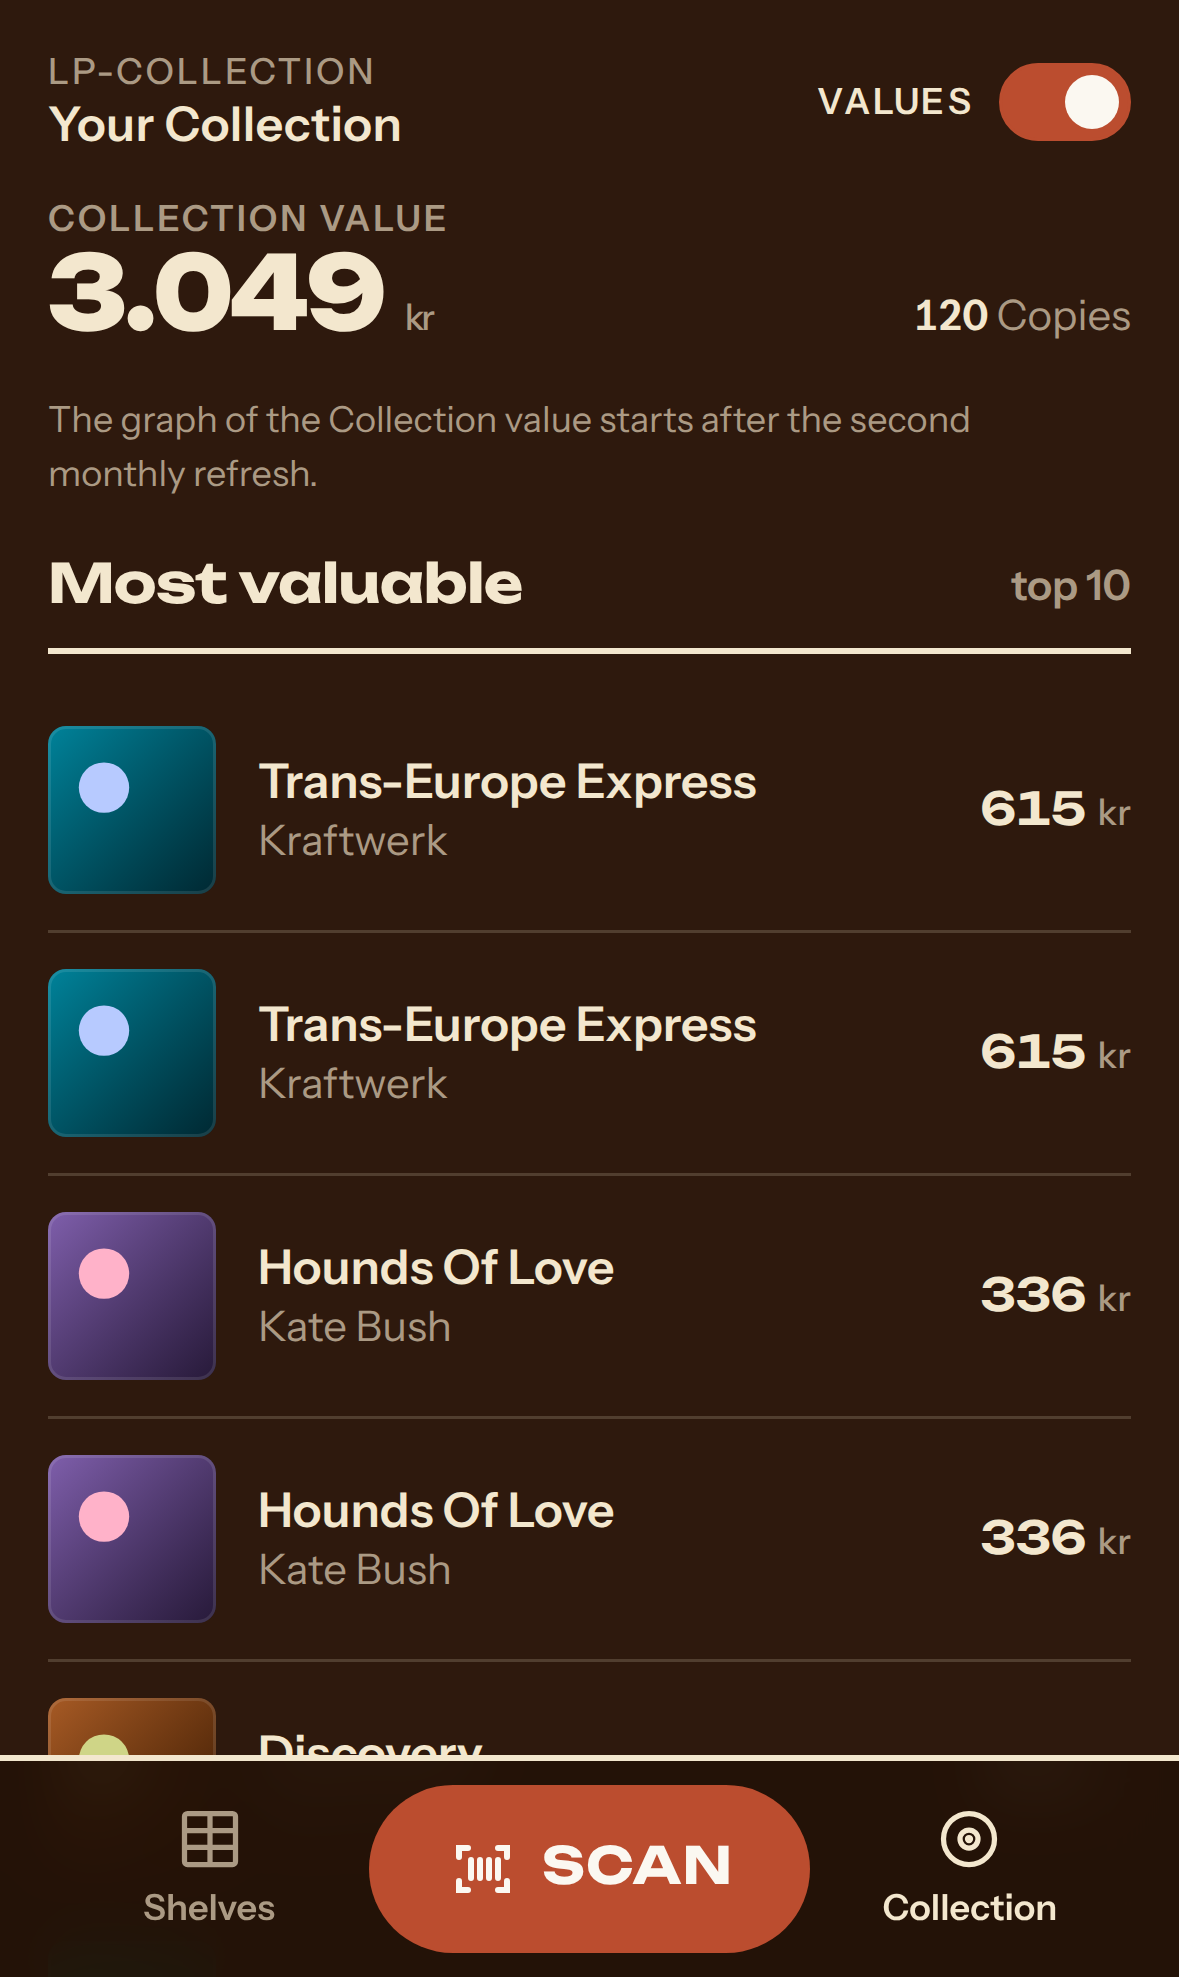
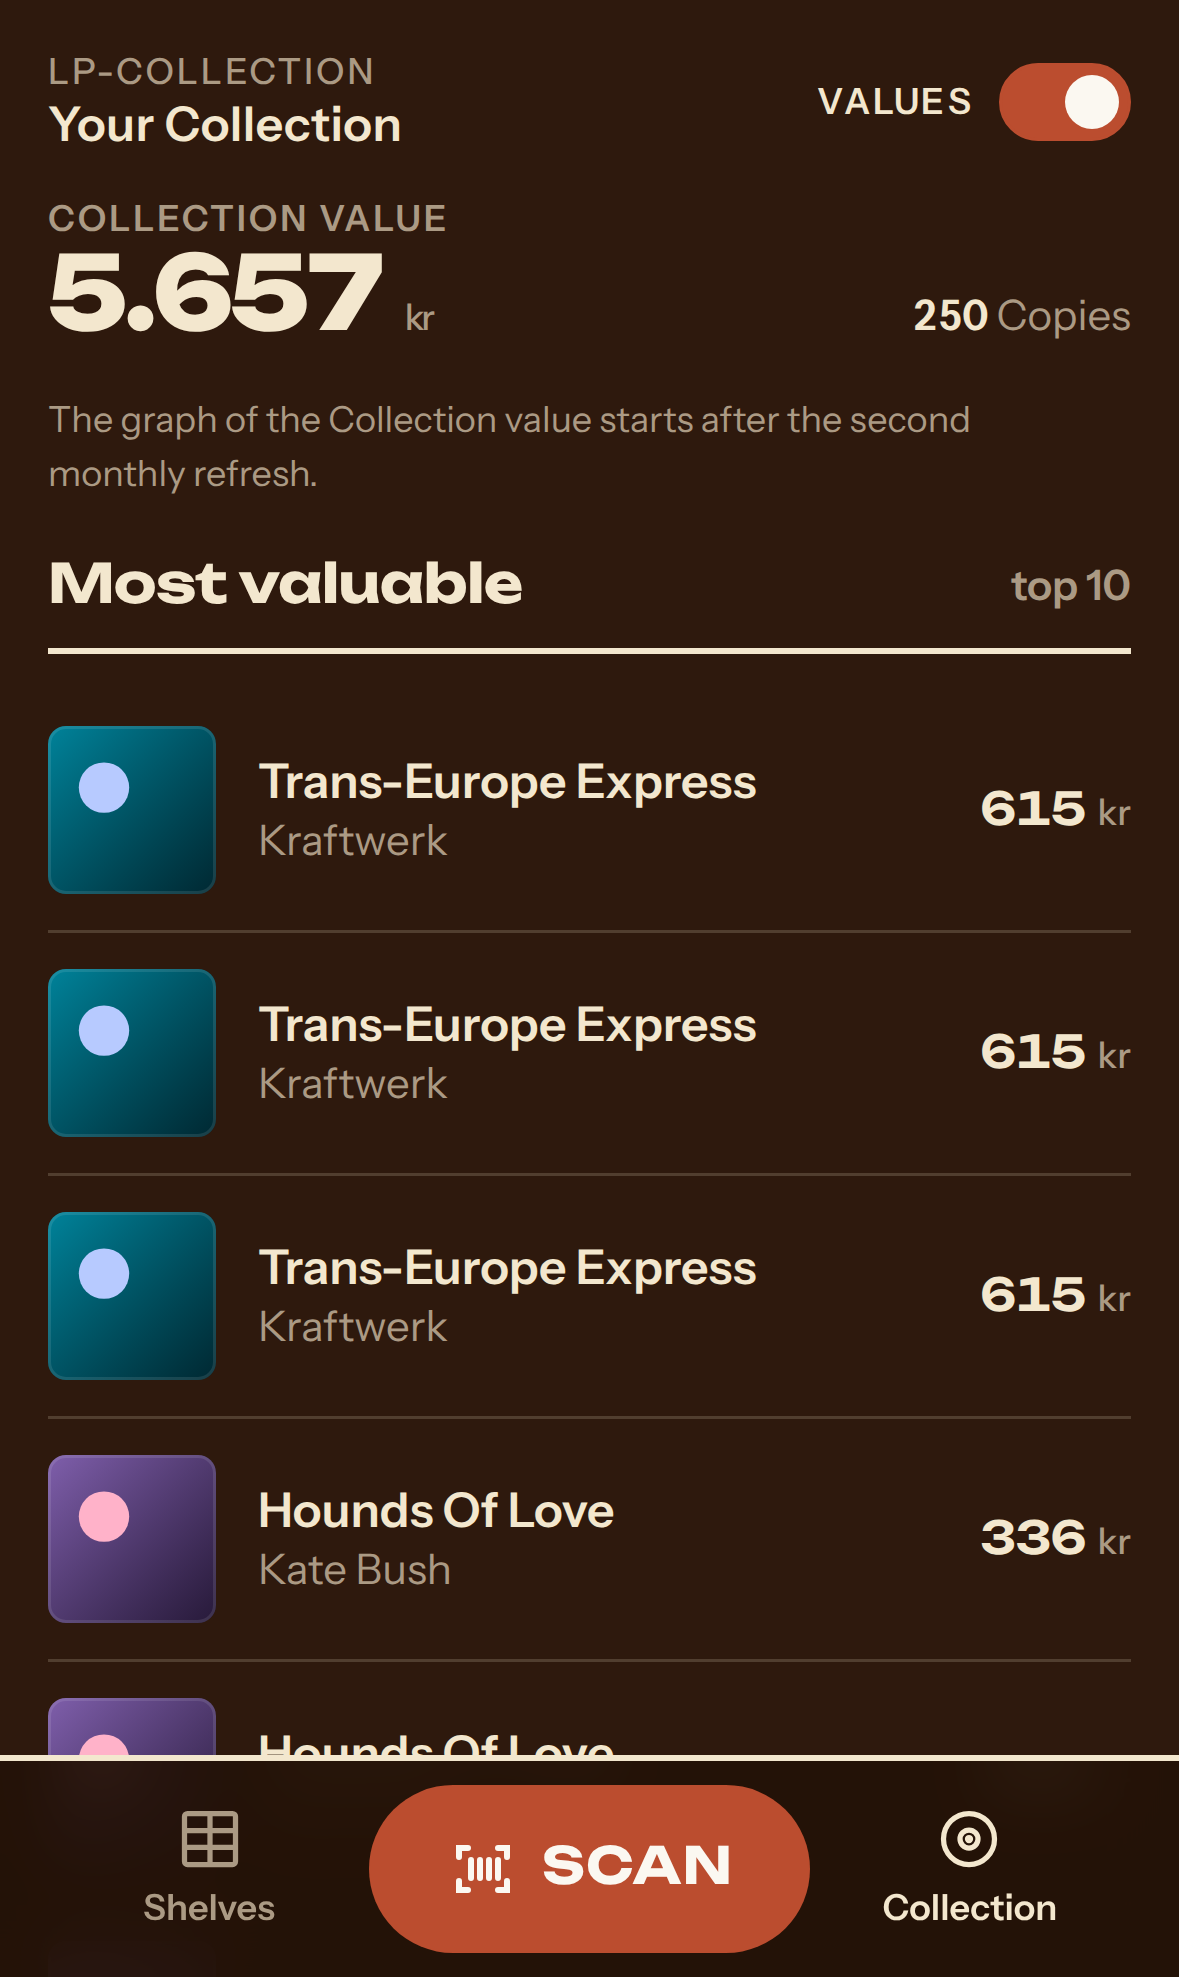
fix(import): run imports side by side and show progress only with something to import (#64)
* fix(import): run imports side by side and show progress only with something to import

One User's large import held up every other new User's, and the progress
notice briefly showed for empty collections, colliding with other status
messages. Imports now run one per User, and the notice appears once the
first page says how many records there are.

* docs: retake ticket 13 screenshots with progress counts

---------

diff --git a/test/api/discogs-import.test.ts b/test/api/discogs-import.test.ts
@@ -1,7 +1,7 @@
 import { expect, test } from "vitest";
 import { createImporter, importPauseMs } from "../../src/server/discogs-import.ts";
 import { priceLadder, sampleReleases, type FakeDiscogsScript } from "../../src/server/fake-discogs.ts";
-import { logInWithCollection, saveCopy, type Member, type TestApp } from "../support/members.ts";
+import { invitedFriend, logInWithCollection, type Member, type TestApp } from "../support/members.ts";
 import { createTestApp } from "../support/test-app.ts";
 
 type Listed = { copies: { id: string; mediaCondition: string; sleeveCondition: string; release: { discogsReleaseId: number; title: string } }[]; total: number };
@@ -97,4 +97,28 @@ test("the import keeps to 40 Discogs requests a minute, pausing before each, and
   expect(importPauseMs).toBe(1500);
   expect(waits).toEqual(Array(1 + 4 * 2).fill(importPauseMs));
   expect((await list(owner)).total).toBe(4);
+});
+
+test("Users' imports run side by side, so one large import never holds up another User's", async () => {
+  const app = await createTestApp({ discogs: { releases: sampleReleases, collections: { "app-owner": releaseIds.slice(0, 2), friend: releaseIds.slice(0, 3) } } });
+  const owner = await logInWithCollection(app);
+  const friend = await invitedFriend(app, owner.session, "friend");
+  await app.query("delete from copies");
+  await app.query("update discogs_imports set status = 'running', next_page = 1, imported = 0");
+  let release!: () => void;
+  const ownersPageHeld = new Promise<void>((resolve) => (release = resolve));
+  const listed = app.discogs.collectionPage.bind(app.discogs);
+  app.discogs.collectionPage = async (discogsUsername, ...rest) => {
+    if (discogsUsername === "app-owner") await ownersPageHeld;
+    return listed(discogsUsername, ...rest);
+  };
+  const importer = createImporter({ database: app.database, discogs: app.discogs, secretBox: app.secretBox, now: app.now, wait: async () => {} });
+
+  const all = importer.runDue();
+  await expect.poll(async () => (await list(friend)).total).toBe(3);
+  expect((await list(owner)).total).toBe(0);
+
+  release();
+  await all;
+  expect((await list(owner)).total).toBe(2);
 });

diff --git a/src/server/discogs-import.ts b/src/server/discogs-import.ts
@@ -36,8 +36,6 @@ export function createImporter({
   wait: (ms: number) => Promise<void>;
 }) {
   const { db } = database;
-  let running: Promise<void> | undefined;
-  let again = false;
 
   /** Waits its turn for each Discogs request the call makes, then makes it. */
   async function call<T>(request: () => Promise<T>, requests = 1) {
@@ -123,28 +121,40 @@ export function createImporter({
     }
   }
 
+  /** Imports run side by side, one per User: each User's Discogs account has its own rate limit. */
+  const runs = new Map<string, Promise<void>>();
+  const inFlight = new Set<Promise<void>>();
+
+  function track(promise: Promise<void>) {
+    inFlight.add(promise);
+    void promise.finally(() => inFlight.delete(promise)).catch(() => undefined);
+    return promise;
+  }
+
+  /** Starts every due import that isn't running yet, and settles when they are done. */
   function runDue(): Promise<void> {
-    if (running) {
-      again = true;
-      return running;
-    }
-    running = (async () => {
-      do {
-        again = false;
+    return track(
+      (async () => {
+        const started: Promise<void>[] = [];
         for (const job of await due()) {
+          if (runs.has(job.userId)) continue;
           const claimed = await claim(job);
-          if (claimed) await runImport(claimed);
+          if (!claimed) continue;
+          const run = runImport(claimed).finally(() => runs.delete(job.userId));
+          runs.set(job.userId, run);
+          started.push(track(run));
         }
-      } while (again);
-    })().finally(() => {
-      running = undefined;
-    });
-    return running;
+        await Promise.all(started);
+      })(),
+    );
   }
 
   return {
     runDue,
-    idle: () => running ?? Promise.resolve(),
+    /** Settles once no import is running or being started. */
+    async idle() {
+      while (inFlight.size > 0) await Promise.allSettled([...inFlight]);
+    },
     kick() {
       runDue().catch((error: unknown) => console.error(`The Discogs import stopped: ${error instanceof Error ? error.message : String(error)}`));
     },

diff --git a/src/server/main.ts b/src/server/main.ts
@@ -112,7 +112,7 @@ if (config.discogs.kind === "real") {
   exchangeRates = createEcbRates();
 } else {
   console.log(
-    "DISCOGS=fake: using the fake Discogs, whose login page asks only for a username and which knows a few sample Releases and their prices. A username that starts with no-seller-settings has no seller settings until they are saved at /fake-discogs/settings/seller, one that starts with no-collection-sync has a Discogs collection that refuses every change, and one that starts with with-discogs-collection has 120 records in Discogs to import at first login. Exchange rates are fixed.",
+    "DISCOGS=fake: using the fake Discogs, whose login page asks only for a username and which knows a few sample Releases and their prices. A username that starts with no-seller-settings has no seller settings until they are saved at /fake-discogs/settings/seller, one that starts with no-collection-sync has a Discogs collection that refuses every change, and one that starts with with-discogs-collection has 250 records in Discogs to import at first login. Exchange rates are fixed.",
   );
   discogs = fake = createFakeDiscogs({
     releases: sampleReleases,
@@ -121,7 +121,7 @@ if (config.discogs.kind === "real") {
     sellerSettingsMissingFor: (discogsUsername) => discogsUsername.startsWith("no-seller-settings"),
     collectionUnavailableFor: (discogsUsername) => discogsUsername.startsWith("no-collection-sync"),
     collectionFor: (discogsUsername) =>
-      discogsUsername.startsWith("with-discogs-collection") ? Array.from({ length: 120 }, (_, index) => sampleReleases[index % sampleReleases.length]!.discogsReleaseId) : undefined,
+      discogsUsername.startsWith("with-discogs-collection") ? Array.from({ length: 250 }, (_, index) => sampleReleases[index % sampleReleases.length]!.discogsReleaseId) : undefined,
     collectionPageDelayMs: 1_500,
   });
   exchangeRates = createFixedRates();

diff --git a/.claude/skills/verify-lp-collection/bin/drive-discogs-import.ts b/.claude/skills/verify-lp-collection/bin/drive-discogs-import.ts
@@ -37,7 +37,7 @@ await expect(progress).toBeVisible();
 console.log("while it runs:", await progress.textContent());
 await shot(page, "import-running");
 
-await expect(page.getByRole("region", { name: "Overview" })).toContainText("120 Copies", { timeout: 20_000 });
+await expect(page.getByRole("region", { name: "Overview" })).toContainText("250 Copies", { timeout: 20_000 });
 await expect(progress).toHaveCount(0);
 await shot(page, "import-done");
 const me = await page.request.get("/api/me");
@@ -46,9 +46,9 @@ console.log("after:", JSON.stringify(((await me.json()) as { discogsImport: unkn
 
 const again = await (await browser.newContext({ ...iPhone, baseURL: state.appUrl })).newPage();
 await logIn(again, "with-discogs-collection-demo");
-await expect(again.getByRole("region", { name: "Overview" })).toContainText("120 Copies");
+await expect(again.getByRole("region", { name: "Overview" })).toContainText("250 Copies");
 await expect(again.getByText("Importing your Discogs collection")).toHaveCount(0);
-console.log("logging in again: still 120 Copies, no second import");
+console.log("logging in again: still 250 Copies, no second import");
 
 await writeFile(`${evidence}/console-errors.json`, JSON.stringify(consoleErrors, null, 2));
 console.log("console errors:", consoleErrors);

diff --git a/e2e/discogs-import.spec.ts b/e2e/discogs-import.spec.ts
@@ -1,16 +1,16 @@
 import { expect, test } from "./login.ts";
 
 test("a new User's Discogs collection is imported at first login, with progress shown while it runs", async ({ page, logInAsNewUser }) => {
-  // 120 records with Discogs' rate-limit pauses take a while when other tests share the machine.
+  // 250 records with Discogs' rate-limit pauses take a while when other tests share the machine.
   test.setTimeout(90_000);
   await logInAsNewUser(page, "with-discogs-collection");
 
   await expect(page.getByText("Importing your Discogs collection")).toBeVisible();
-  await expect(page.getByRole("region", { name: "Overview" })).toContainText("120 Copies", { timeout: 60_000 });
+  await expect(page.getByRole("region", { name: "Overview" })).toContainText("250 Copies", { timeout: 60_000 });
   await expect(page.getByText("Importing your Discogs collection")).toHaveCount(0);
 
   const { discogsImport } = (await (await page.request.get("/api/me")).json()) as { discogsImport: unknown };
-  expect(discogsImport).toEqual({ status: "done", imported: 120, total: 120 });
+  expect(discogsImport).toEqual({ status: "done", imported: 250, total: 250 });
 
   await page.reload();
   await expect(page.getByText("Importing your Discogs collection")).toHaveCount(0);

diff --git a/src/web/ImportProgress.tsx b/src/web/ImportProgress.tsx
@@ -1,7 +1,7 @@
 import { useEffect, useState } from "react";
 import type { ImportProgress as Progress } from "../server/discogs-import.ts";
 
-const pollMs = 3_000;
+const pollMs = 1_000;
 
 /** While the first-login import runs, how far it has got. When it finishes, the Collection loads again with everything in it. */
 export function ImportProgress({ initial, onFinished }: { initial: Progress | null; onFinished: () => void }) {
@@ -20,15 +20,14 @@ export function ImportProgress({ initial, onFinished }: { initial: Progress | nu
     return () => clearInterval(timer);
   }, [running, onFinished]);
 
-  if (!running) return null;
+  // Nothing shows for an empty Discogs collection, or before the first page says how much there is.
+  if (!running || !progress.total) return null;
   return (
     <p className="notice import-progress" aria-live="polite">
       Importing your Discogs collection…{" "}
-      {progress.total === null ? "" : (
-        <b className="tnum">
-          {progress.imported} of {progress.total}
-        </b>
-      )}
+      <b className="tnum">
+        {progress.imported} of {progress.total}
+      </b>
     </p>
   );
 }

diff --git a/.claude/skills/verify-lp-collection/features/discogs-import.md b/.claude/skills/verify-lp-collection/features/discogs-import.md
@@ -16,10 +16,10 @@ When a User logs in for the first time, everything already in their Discogs coll
 
 ## Driving it with verify-lp-collection
 
-Preconditions: baseline state, `doctor.ts` reports `HEALTHY`. The fake Discogs gives a username starting with `with-discogs-collection` 120 records to import, and takes 1.5 s per page so the progress can be seen.
+Preconditions: baseline state, `doctor.ts` reports `HEALTHY`. The fake Discogs gives a username starting with `with-discogs-collection` 250 records to import, and takes 1.5 s per page so the progress can be seen. The notice appears once the first page says how many records there are.
 
-- Log in as `owner` and create an Invite. Through it, log in as `with-discogs-collection-demo`: the notice shows, then the Overview says 120 Copies and the notice is gone.
-- Log in again as the same User: still 120 Copies, no notice.
+- Log in as `owner` and create an Invite. Through it, log in as `with-discogs-collection-demo`: the notice shows, then the Overview says 250 Copies and the notice is gone.
+- Log in again as the same User: still 250 Copies, no notice.
 - `node .claude/skills/verify-lp-collection/bin/drive-discogs-import.ts <run-id>` drives all of this and saves `import-running.png`, `import-done.png`, `me-after-import.http.txt` and `console-errors.json` (only the `401` before login is expected).
 
 ## Gotchas
